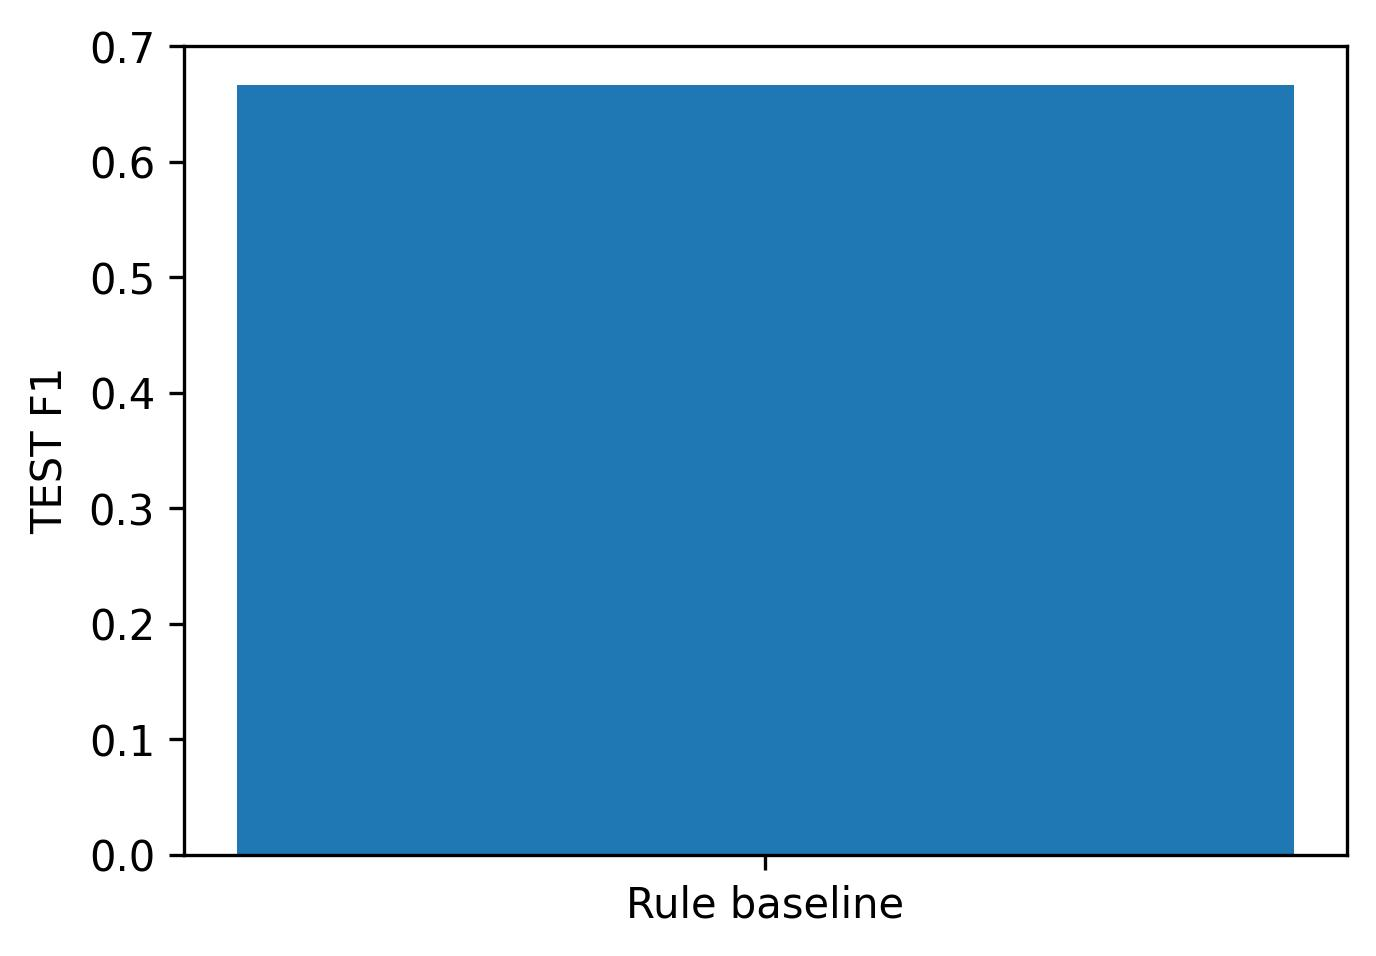
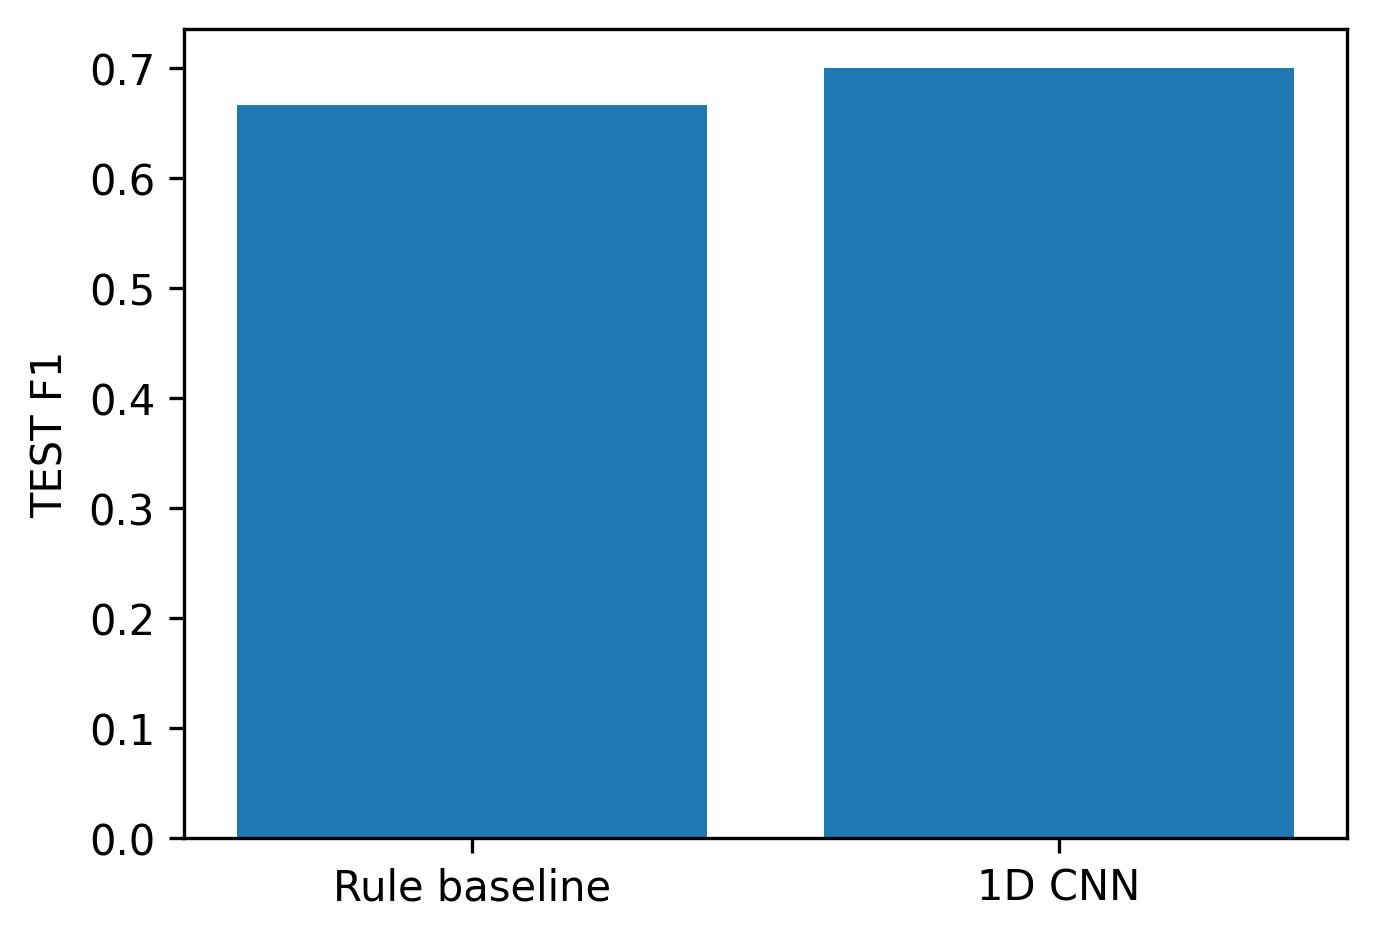
Add 1D CNN TEST F1 0.70 vs rule TEST F1 0.67

diff --git a/dissertation-behaviour-recognition/results/final_results_summary.md b/dissertation-behaviour-recognition/results/final_results_summary.md
@@ -6,7 +6,7 @@ Gold TEST: 15
 
 Gold features extracted: 30/30
 
-Pseudo TRAIN: 0
+Pseudo TRAIN: 80
 
 ## Rule baseline
 
@@ -16,8 +16,8 @@ TEST F1: 0.6666666666666666
 
 ## Learned model
 
-DEV F1: None
+DEV F1: 0.8888888888888888
 
-TEST F1: None
+TEST F1: 0.7
 
 Missing values mean EMOCA features were not obtained. They were not invented.
